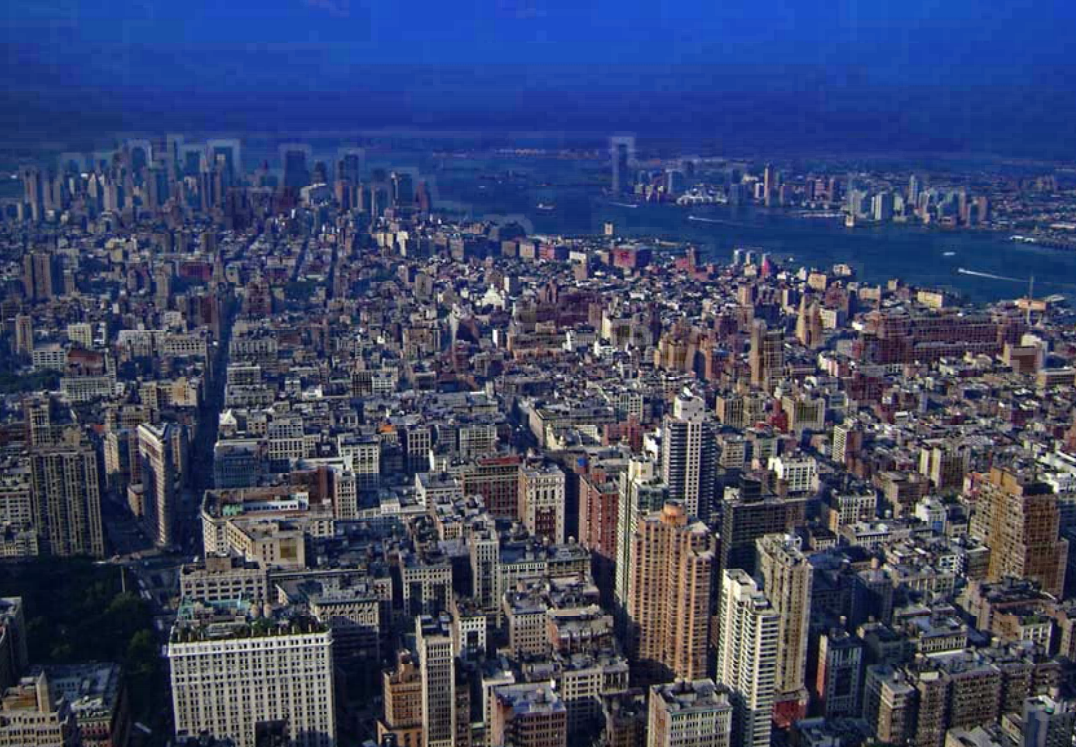
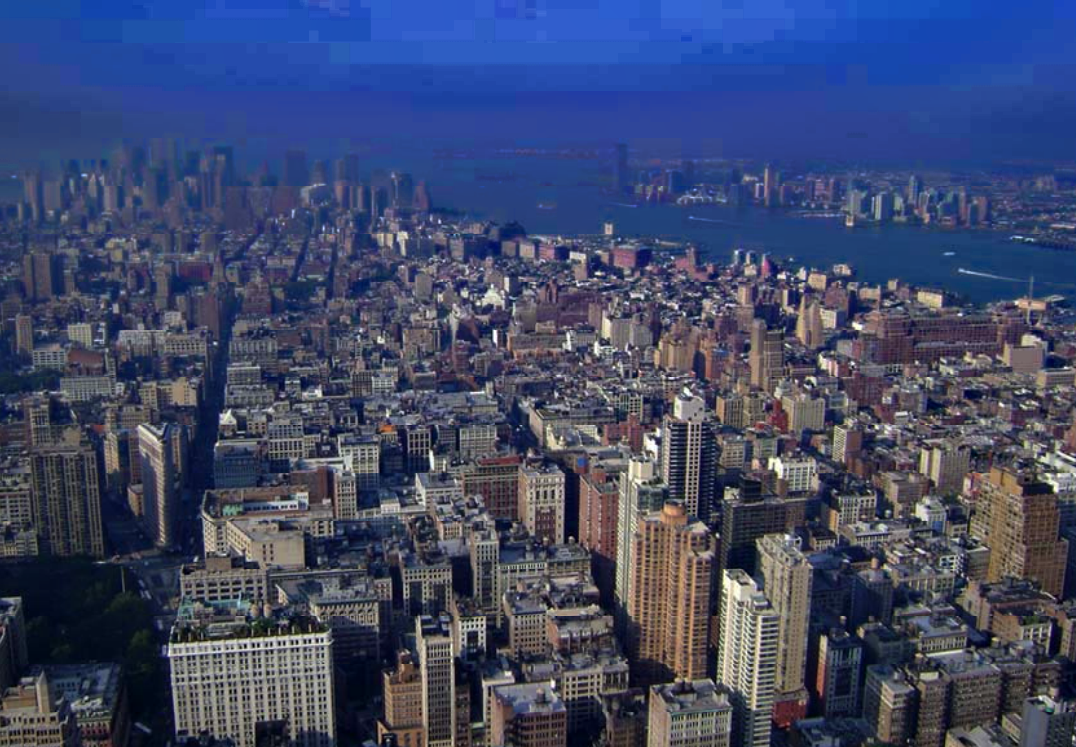
Documentation
added a little something to calculate several pictures in a single loop and clarified documentation (synchronized darkchannel and transmission)

diff --git a/dehazer_thesis.py b/dehazer_thesis.py
@@ -58,7 +58,7 @@ def estimate_atmospheric_light(im, dark, top_percent=0.001, patch_avg=3): #by de
 
     return A
 
-def estimate_transmission(I, A, omega=0.95, size=15):
+def estimate_transmission(I, dark, A, omega=0.95):
     """Estimate transmission  t̃(x) = 1 - ω * min_c( min_{y∈Ω(x)} I^c(y)/A^c ).
     I: HxWx3 float32 in [0,1]  (BGR if read by cv2)
     A: (3,) float32 in [0,1]   (same channel order as I)
@@ -73,21 +73,12 @@ def estimate_transmission(I, A, omega=0.95, size=15):
     norm = I / np.maximum(A, 1e-6)               # avoid divide-by-zero
     norm = np.minimum(norm, 1.0)                 # clamp to [0,1] as in the paper's assumption
 
-    # --- per-channel patch minimum:  min_{y∈Ω(x)} (I^c(y)/A^c) ---
-    kernel = cv2.getStructuringElement(cv2.MORPH_RECT, (size, size))
-    min_r = cv2.erode(norm[:, :, 0], kernel)     # channel R (or B if using cv2/BGR)
-    min_g = cv2.erode(norm[:, :, 1], kernel)
-    min_b = cv2.erode(norm[:, :, 2], kernel)
-
-    # --- then take min over channels:  min_c ( · ) ---
-    dark_norm = np.minimum(np.minimum(min_r, min_g), min_b)
-
     # --- final transmission:  t̃(x) = 1 - ω * dark_norm ---
-    t = 1.0 - omega * dark_norm
+    t = 1.0 - omega * dark
     t = np.clip(t, 0.0, 1.0)                      # keep in [0,1]
     return t
 
-def soft_matting(I_rgb, t_coarse, win_radius=1, eps=1e-7, lam=1e-4, max_processes = 4):
+def soft_matting(I_rgb, t_coarse, maxiter, win_radius=1, eps=1e-7, lam=1e-4, max_processes = 4):
     """
     Closed-form matting refinement of transmission (soft matting).
     I_rgb    : HxWx3 float32 in [0,1]  (guide: original color image)
@@ -131,9 +122,9 @@ def soft_matting(I_rgb, t_coarse, win_radius=1, eps=1e-7, lam=1e-4, max_processe
 
     # cleaning buffers
 
-    rows = np.concatenate([r[0] for r in results])
-    cols = np.concatenate([r[1] for r in results])
-    vals = np.concatenate([r[2] for r in results])
+    rows = np.concatenate([r[0] for r in results]).astype(np.float32)
+    cols = np.concatenate([r[1] for r in results]).astype(np.float32)
+    vals = np.concatenate([r[2] for r in results]).astype(np.float32)
 
     print("loading laplacian : 100% !")
     print("Putting it all in order (1/3)")
@@ -149,7 +140,7 @@ def soft_matting(I_rgb, t_coarse, win_radius=1, eps=1e-7, lam=1e-4, max_processe
     print("loading laplacian : 100% ! Inverting matrix...")
 
     # Solve sparse linear system (slow !)
-    t_refined, info = cg(A, b, rtol=1e-6,maxiter=500)
+    t_refined, info = cg(A, b, rtol=1e-6, maxiter = maxiter)
     if info != 0:
         print("⚠️ CG did not fully converge, info =", info)
     t_refined = t_refined.reshape(H, W).astype(np.float32)
@@ -221,7 +212,7 @@ def recover_radiance(I, A, t, t0=0.1):
     J = (I - A) / t[..., None] + A             # Eq.(16)
     return np.clip(J, 0.0, 1.0)                # keep valid range
 
-def dehaze(img_path, out_dir="dehazed_results", dc_size = 15, top_percent = 0.001, patch_avg = 1, omega = 0.95, t_size = 15, w_radius = 1, eps = 10E-7, lam = 10E-4, t0 = 0.1, max_processes = 6):
+def dehaze(img_path, maxiter, custom_output_name, out_dir="dehazed_results", dc_size = 15, top_percent = 0.001, patch_avg = 1, omega = 0.95, w_radius = 1, eps = 10E-7, lam = 10E-4, t0 = 0.1, max_processes = 6):
     """
     Full single-image dehazing pipeline (He et al. 2009).
     img_path : path to hazy image
@@ -237,13 +228,13 @@ def dehaze(img_path, out_dir="dehazed_results", dc_size = 15, top_percent = 0.00
     A = estimate_atmospheric_light(I, dark, top_percent, patch_avg)
 
     # 4. coarse transmission
-    t_coarse = estimate_transmission(I, A, omega, t_size)
+    t_coarse = estimate_transmission(I, dark, A, omega)
 
     # 5. refine transmission
     try:
         I_rgb = cv2.cvtColor(I, cv2.COLOR_BGR2RGB)
         
-        t_refined = transmission_cut_apply_soft_matting(I_rgb, t_coarse, n_cut_width = 1, n_cut_height = 1 ,win_radius = w_radius, eps = eps, lam = lam, max_processes = max_processes,ratio = 0.5)
+        t_refined = transmission_cut_apply_soft_matting(I_rgb, t_coarse, maxiter, n_cut_width = 1, n_cut_height = 1 ,win_radius = w_radius, eps = eps, lam = lam, max_processes = max_processes,ratio = 0.5)
 
     except Exception as e:
         print(f"[WARN] Soft matting failed ({e}), using coarse transmission.")
@@ -256,12 +247,15 @@ def dehaze(img_path, out_dir="dehazed_results", dc_size = 15, top_percent = 0.00
     # 7. save result
     os.makedirs(out_dir, exist_ok=True)
     base_name = os.path.splitext(os.path.basename(img_path))[0]
-    out_path = os.path.join(out_dir, f"{base_name}_dehazed.png")
+    if custom_output_name is not None:
+        out_path = os.path.join(out_dir, f"{custom_output_name}_dehazed.png")
+    else :
+        out_path = os.path.join(out_dir, f"{base_name}_dehazed.png")
     cv2.imwrite(out_path, (J * 255).astype('uint8'))
     print(f"[INFO] Dehazed image saved to {out_path}")
     return J, t_refined, A
 
-def transmission_cut_apply_soft_matting(I_rgb : np.ndarray,t_coarse : np.ndarray ,n_cut_width : int ,n_cut_height : int, win_radius : int, eps : float ,lam : float, max_processes, ratio : float = 0.5) -> list[np.ndarray]:
+def transmission_cut_apply_soft_matting(I_rgb : np.ndarray,t_coarse : np.ndarray , maxiter : int, n_cut_width : int ,n_cut_height : int, win_radius : int, eps : float ,lam : float, max_processes, ratio : float = 0.5) -> list[np.ndarray]:
     height,width = t_coarse.shape
     height_cut = height//n_cut_height
     width_cut = width//n_cut_width
@@ -298,7 +292,7 @@ def transmission_cut_apply_soft_matting(I_rgb : np.ndarray,t_coarse : np.ndarray
     for t_patch,i_patch,coord in zip(transmission_patches,I_rgb_patches,coords):
         print(f"============= patch {t_patch.shape} started ! : {loading_counter}/{loading_total} =============")
         i_min, i_max, j_min, j_max = coord
-        refined_patch = soft_matting(i_patch,t_patch, win_radius, eps, lam, max_processes)
+        refined_patch = soft_matting(i_patch,t_patch, maxiter, win_radius, eps, lam, max_processes)
         refined_patch = refined_patch.reshape(i_max - i_min, j_max - j_min)
         t_refined_full[i_min:i_max,j_min:j_max] = refined_patch
         loading_total+=1
@@ -342,5 +336,115 @@ def transmission_cut_apply_soft_matting(I_rgb : np.ndarray,t_coarse : np.ndarray
 
 # Example usage
 if __name__ == "__main__":
-    dehaze("hazed_images/4.jpg","dehazed_images",
-           dc_size = 5, w_radius = 2, patch_avg = 3,max_processes = 6)
+    # dehaze(img_path = "./hazed_images/1.jpg",
+    #        maxiter = 10000,                         # number of maximal iteration before attaining the inverse
+    #        out_dir="./dehazed_results",             
+    #        dc_size = 15,                            # size of convolution kernel of the dark channel
+    #        top_percent = 0.001,                     # choose the top percent of the brightest pixels in the dark channel
+    #        patch_avg = 1,                           # size of the patch to average the pixel chosen to be the ambient light around its place 
+    #        omega = 0.95,                            # here to lessen the impact of the dark channel on the transmission light : the less it is, the less the dark channel influences the transmission map.                          # patch
+    #        w_radius = 1,                            # window of convolution for soft-matting
+    #        eps = 10E-7,                             # an epsilon in the formula of soft-matting
+    #        lam = 10E-4,                             # an lambda in the soft-matting formula
+    #        t0 = 0.1,                                # the inferior bound of the refined transmission
+    #        max_processes = 6,
+    #        custom_output_name = name                # custom saved file name if you want one
+    #        )                       # maximum number of processes. Be careful of your logical core number and your RAM.
+
+    img_path = "./hazed_images/4.jpg"
+
+    params_list = [
+        {
+    "img_path": img_path,
+    "maxiter": 10000,
+    "out_dir": "seriespicturesoutput",
+    "dc_size": 15,
+    "top_percent": 0.001,
+    "patch_avg": 1,
+    "omega": 0.95,
+    "w_radius": 1,
+    "eps": 10E-7,
+    "lam": 10E-4,
+    "t0": 0.1,
+    "max_processes": 6
+    }
+    ,
+            {
+    "img_path": img_path,
+    "maxiter": 10000,
+    "out_dir": "seriespicturesoutput",
+    "dc_size": 15,
+    "top_percent": 0.001,
+    "patch_avg": 1,
+    "omega": 0.95,
+    "w_radius": 2,
+    "eps": 10E-7,
+    "lam": 10E-4,
+    "t0": 0.1,
+    "max_processes": 6
+    }
+    ,
+            {
+    "img_path": img_path,
+    "maxiter": 10000,
+    "out_dir": "seriespicturesoutput",
+    "dc_size": 15,
+    "top_percent": 0.001,
+    "patch_avg": 1,
+    "omega": 0.95,
+    "w_radius": 2,
+    "eps": 10E-7,
+    "lam": 10E-4,
+    "t0": 0.1,
+    "max_processes": 6
+    }
+    ,
+            {
+    "img_path": img_path,
+    "maxiter": 10000,
+    "out_dir": "seriespicturesoutput",
+    "dc_size": 10,
+    "top_percent": 0.001,
+    "patch_avg": 1,
+    "omega": 0.95,
+    "w_radius": 2,
+    "eps": 10E-7,
+    "lam": 10E-4,
+    "t0": 0.1,
+    "max_processes": 6
+    }
+    ,
+            {
+    "img_path": img_path,
+    "maxiter": 10000,
+    "out_dir": "seriespicturesoutput",
+    "dc_size": 5,
+    "top_percent": 0.001,
+    "patch_avg": 1,
+    "omega": 0.95,
+    "w_radius": 2,
+    "eps": 10E-7,
+    "lam": 10E-4,
+    "t0": 0.1,
+    "max_processes": 6
+    }
+    ,
+            {
+    "img_path": img_path,
+    "maxiter": 10000,
+    "out_dir": "seriespicturesoutput",
+    "dc_size": 30,
+    "top_percent": 0.001,
+    "patch_avg": 1,
+    "omega": 0.95,
+    "w_radius": 2,
+    "eps": 10E-7,
+    "lam": 10E-4,
+    "t0": 0.1,
+    "max_processes": 6
+    }
+    ,
+    ]
+    
+    for i,params in enumerate(params_list):
+        dehaze(**params,custom_output_name=f"{i}")